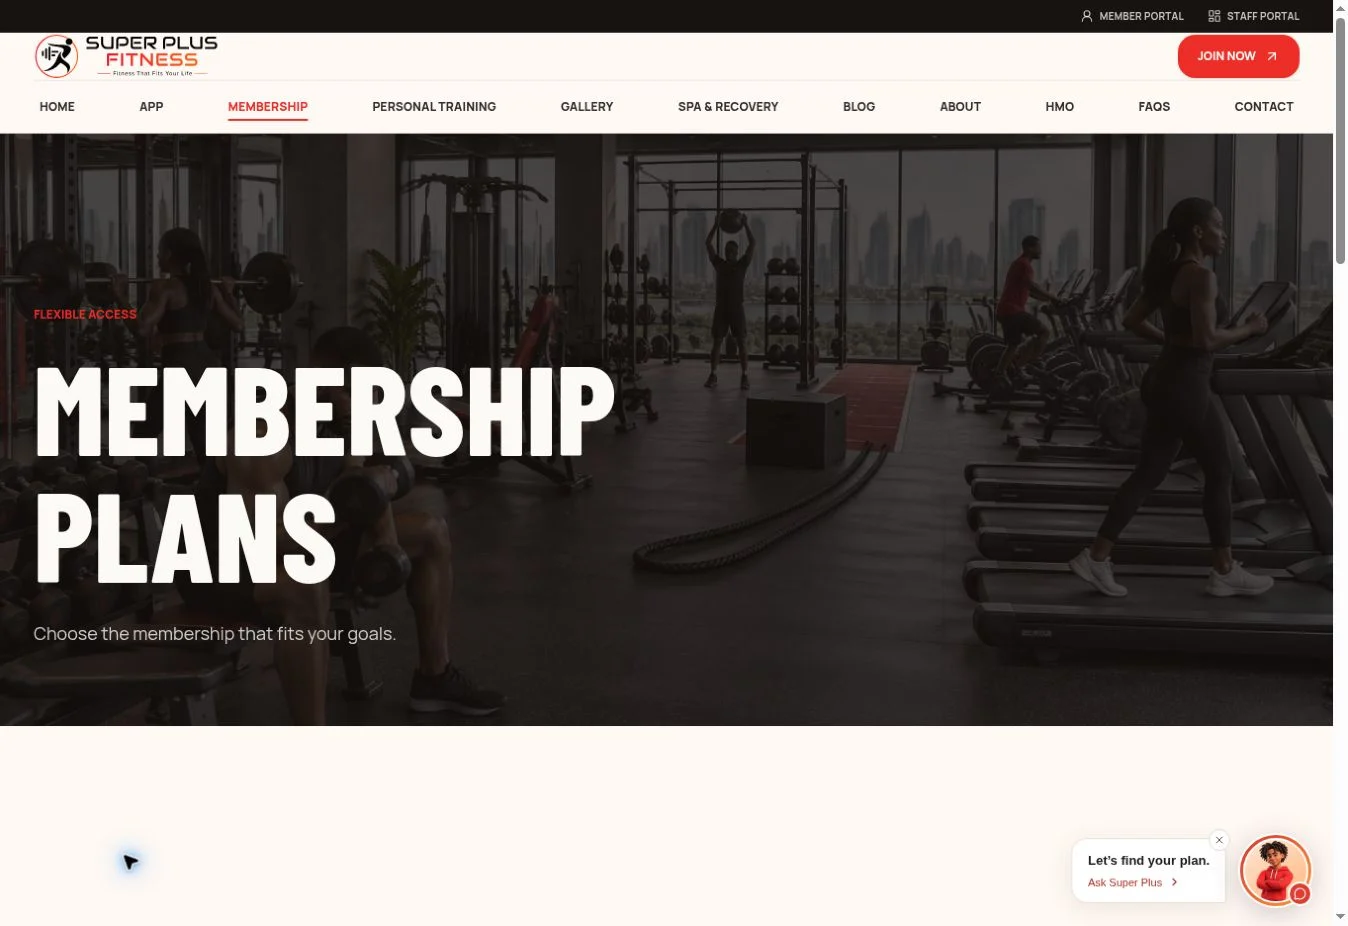
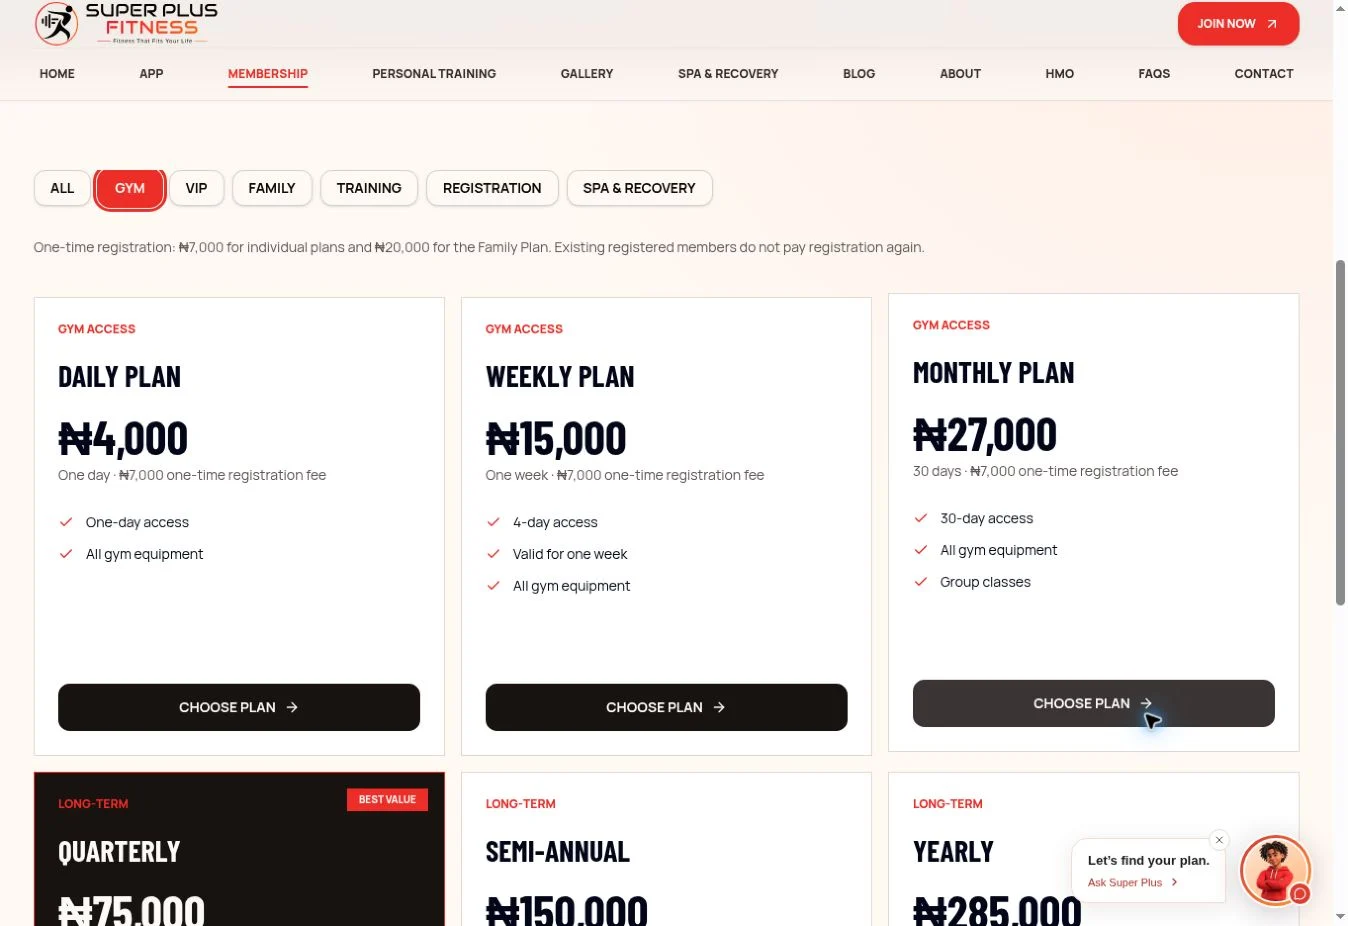
Show pricing and booking details and align portfolio covers

diff --git a/src/superplus-showcase.css b/src/superplus-showcase.css
@@ -12,3 +12,7 @@
 .spf-gallery-panel{display:grid;grid-template-columns:minmax(0,1.65fr) minmax(0,1fr);border:1px solid var(--border);border-radius:18px;overflow:hidden}.spf-gallery-image{align-self:center;min-width:0;background:#252525}.spf-gallery-expand{position:relative;display:block;width:100%;padding:0;border:0;background:#f6f6f6;cursor:zoom-in}.spf-gallery-expand img{display:block;width:100%;height:auto;aspect-ratio:1363/936;object-fit:contain}.spf-gallery-expand>span{position:absolute;bottom:14px;right:14px;display:flex;align-items:center;gap:8px;background:#151515ed;color:white;padding:9px 12px;border-radius:50px;font-size:12px}.spf-gallery-copy{padding:clamp(22px,3vw,42px);display:flex;flex-direction:column;justify-content:center}.spf-gallery-copy h3{font-size:clamp(1.8rem,2.5vw,2.8rem);line-height:1.1;letter-spacing:-.035em;margin:18px 0}.spf-gallery-copy>p:not(.p-label){color:var(--muted-foreground);font-size:15px;line-height:1.8}.spf-gallery-copy small{font-size:11px;color:var(--muted-foreground);margin:24px 0 18px;line-height:1.6}.spf-gallery-copy>a{display:inline-flex;align-items:center;gap:8px;font-size:13px;font-weight:600;text-decoration:underline;text-underline-offset:5px}
 .spf-gallery-dialog{width:calc(100vw - 24px);max-width:1200px;max-height:94dvh;padding:22px;overflow:auto}.spf-gallery-dialog>div{overflow:auto}.spf-gallery-dialog img{width:100%;height:auto;display:block;min-width:650px}
 @media(max-width:767px){.spf-project-case-hero{aspect-ratio:1.35}.spf-gallery{padding:48px 0}.spf-gallery-heading{display:block}.spf-gallery-heading>p{margin-top:20px}.spf-gallery-switcher{display:grid;grid-template-columns:repeat(3,minmax(0,1fr));gap:7px}.spf-gallery-switcher button{justify-content:center;padding:10px 5px;font-size:11px;gap:5px;min-height:44px}.spf-gallery-panel{grid-template-columns:1fr}.spf-gallery-copy{padding:24px}.spf-gallery-copy h3{font-size:1.9rem}.spf-gallery-dialog{padding:20px 14px}.spf-gallery-dialog img{min-width:760px}.spf-cover-footer span:last-child{display:none}}
+/* Keep the selected-work cards aligned across the project row. */
+.portfolio-shell .ia-home-condensed .p-project-image{height:auto;aspect-ratio:1.6}
+.portfolio-shell .ia-home-condensed .p-project-image>.jis-portfolio-visual{aspect-ratio:1.6;height:100%}
+.portfolio-shell .spf-cover-membership img,.spf-cover-membership img{transform:none!important}
